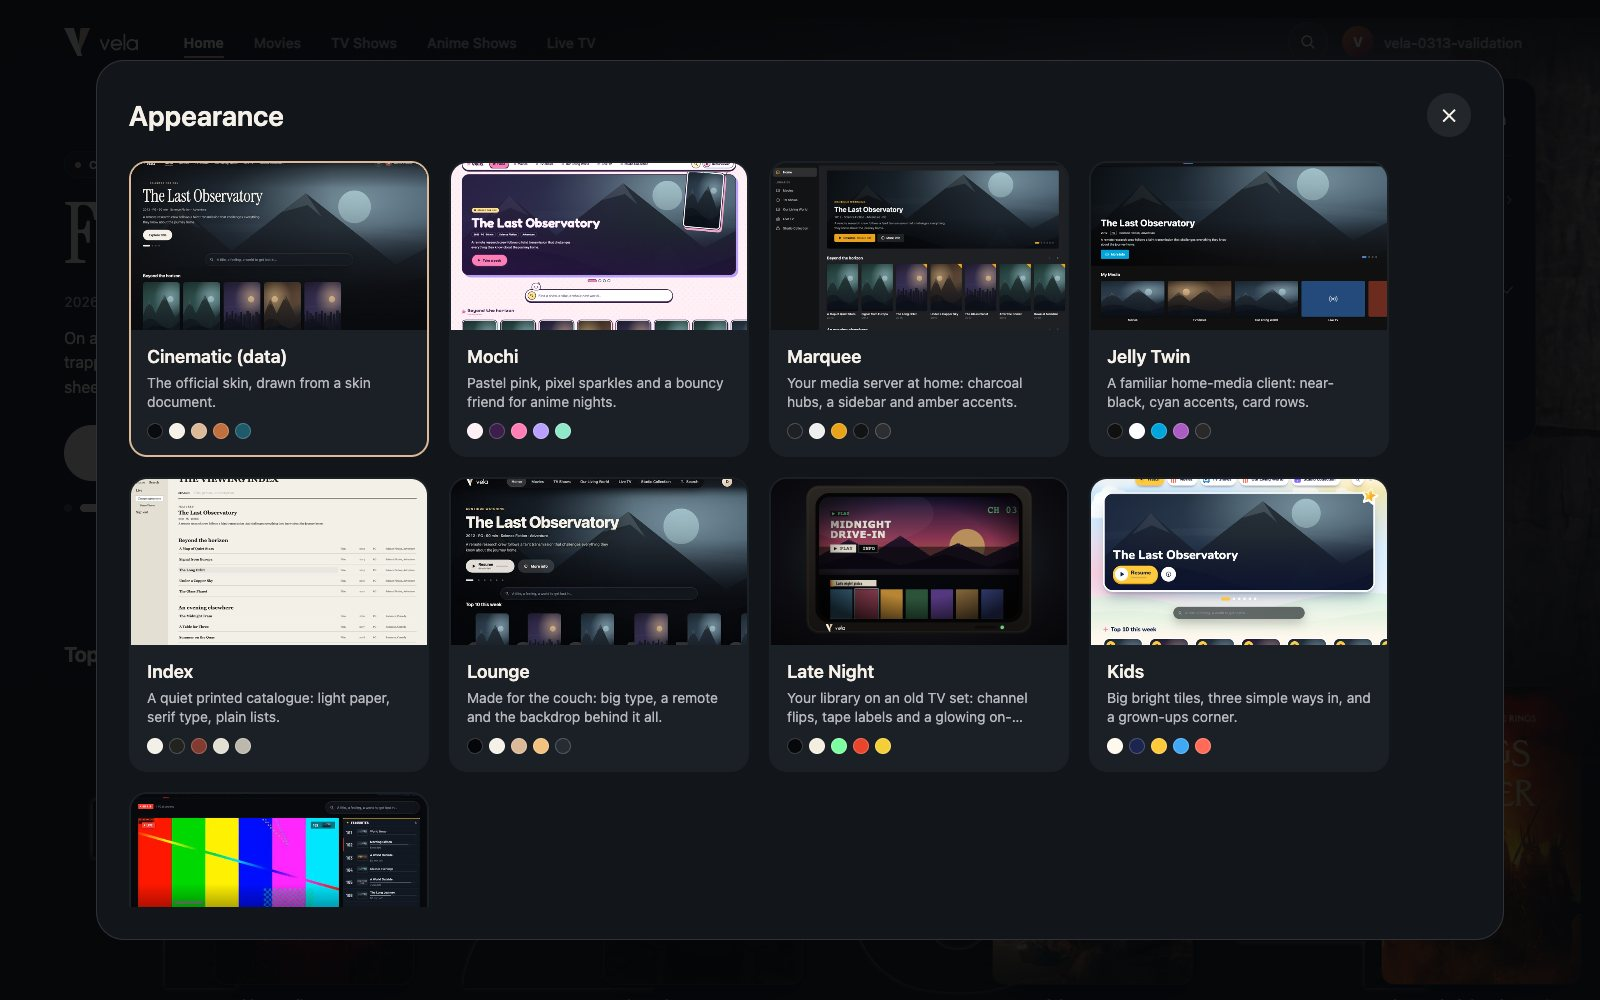
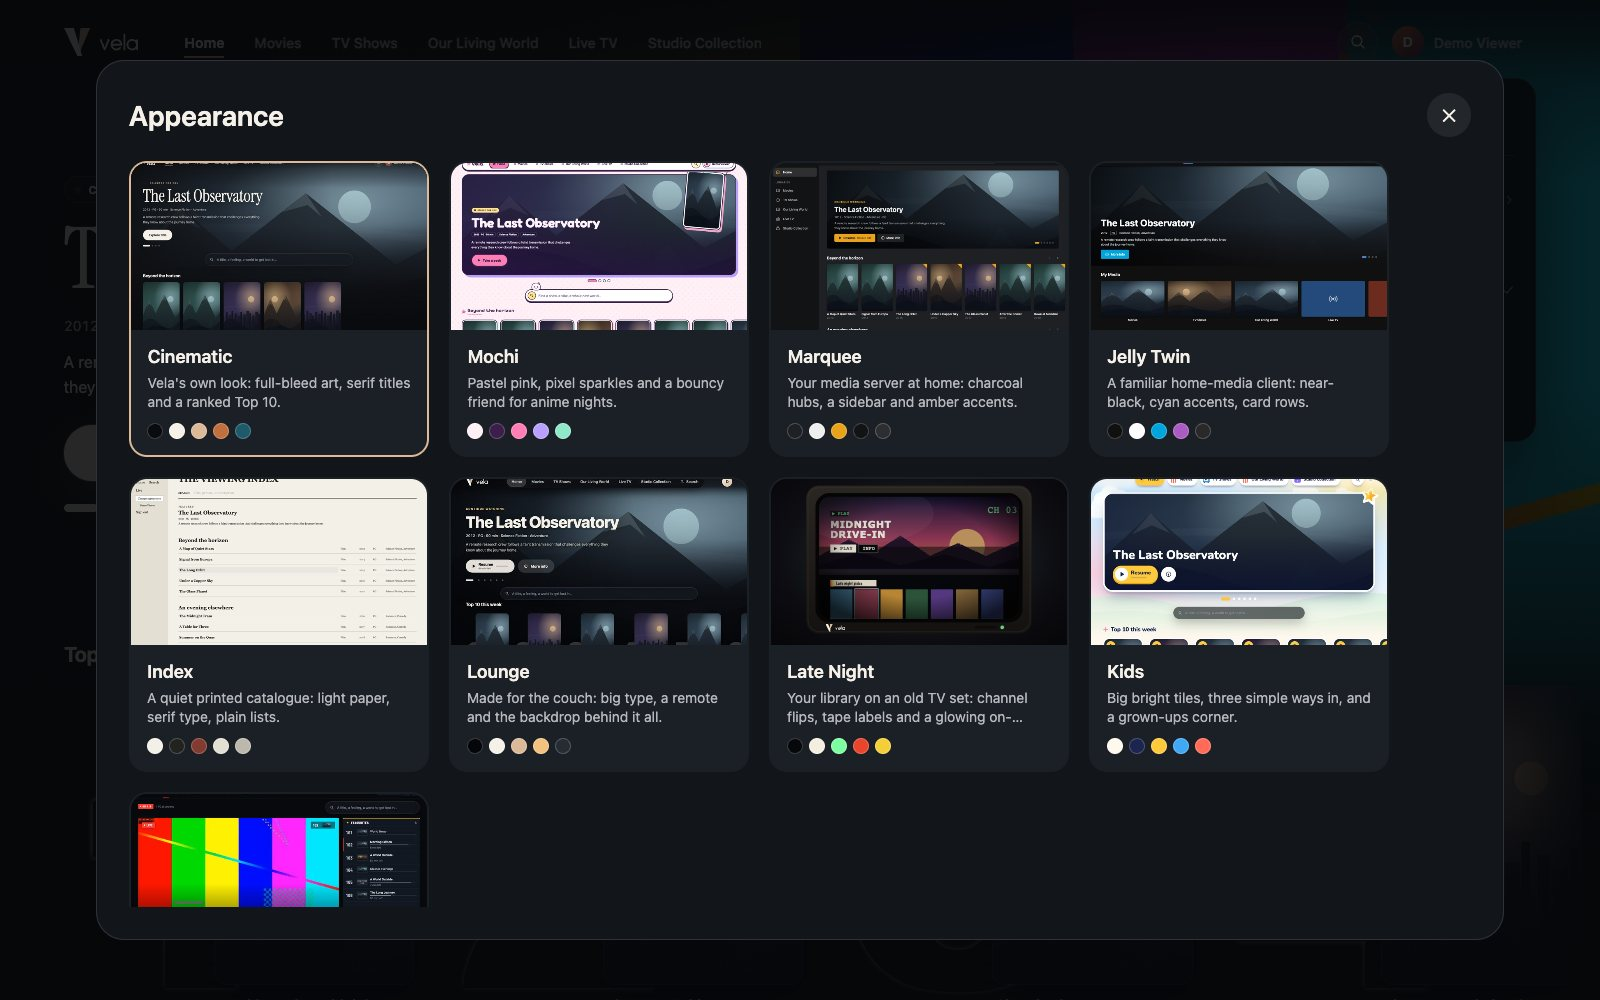
Name the Cinematic skin plainly
It showed as "Cinematic (data)" with an internal tagline in the skin
picker and profile menu. Version 1.0.1, since published skin URLs are
immutable per version.

diff --git a/apps/vela/scripts/assets.ts b/apps/vela/scripts/assets.ts
@@ -36,7 +36,7 @@ for (const entry of await readdir(skins, { withFileTypes: true })) {
   }
 }
 // The Cinematic document's preview is the app's own picture of it.
-entries.push(['/vela/v0/appearance/skins/cinematic-doc/1.0.0/preview.jpg', join(root, 'apps/vela/assets/skins/cinematic.jpg')]);
+entries.push(['/vela/v0/appearance/skins/cinematic-doc/1.0.1/preview.jpg', join(root, 'apps/vela/assets/skins/cinematic.jpg')]);
 const lines = entries.map(([key, file]) => `  ${JSON.stringify(key)}: require(${JSON.stringify(relative(join(root, 'apps/vela/src'), file))}),`);
 await Bun.write(out, `// Generated by apps/vela/scripts/assets.ts: do not edit.\n/* eslint-disable */\nexport const ASSETS: Record<string, number | string> = {\n${lines.join('\n')}\n};\n`);
 console.log(`${entries.length} assets`);

diff --git a/apps/vela/src/assets.generated.ts b/apps/vela/src/assets.generated.ts
@@ -78,5 +78,5 @@ export const ASSETS: Record<string, number | string> = {
   "/vela/v0/appearance/skins/broadcast/1.0.0/barlow-condensed-600.ttf": require("../../../packages/protocol/fixtures/skins/broadcast/assets/barlow-condensed-600.ttf"),
   "/vela/v0/appearance/skins/broadcast/1.0.0/barlow-condensed-500.ttf": require("../../../packages/protocol/fixtures/skins/broadcast/assets/barlow-condensed-500.ttf"),
   "/vela/v0/appearance/skins/broadcast/1.0.0/barlow-condensed-700.ttf": require("../../../packages/protocol/fixtures/skins/broadcast/assets/barlow-condensed-700.ttf"),
-  "/vela/v0/appearance/skins/cinematic-doc/1.0.0/preview.jpg": require("../assets/skins/cinematic.jpg"),
+  "/vela/v0/appearance/skins/cinematic-doc/1.0.1/preview.jpg": require("../assets/skins/cinematic.jpg"),
 };

diff --git a/packages/protocol/fixtures/skins/cinematic.ts b/packages/protocol/fixtures/skins/cinematic.ts
@@ -7,10 +7,10 @@ export const cinematicDoc: SkinDocument = {
   schema: 1,
   renderer: 15,
   id: 'cinematic-doc',
-  name: 'Cinematic (data)',
-  version: '1.0.0',
-  tagline: 'The official skin, drawn from a skin document.',
-  preview: '/vela/v0/appearance/skins/cinematic-doc/1.0.0/preview.jpg',
+  name: 'Cinematic',
+  version: '1.0.1',
+  tagline: 'Vela\'s own look: full-bleed art, serif titles and a ranked Top 10.',
+  preview: '/vela/v0/appearance/skins/cinematic-doc/1.0.1/preview.jpg',
   swatches: ['#090b0e', '#f5f1e9', '#dcb998', '#c0703f', '#1f5a6b'],
   // The Vela base's own look: Cinematic's values (client/src/skin/ui-defaults.ts).
   ui: {
